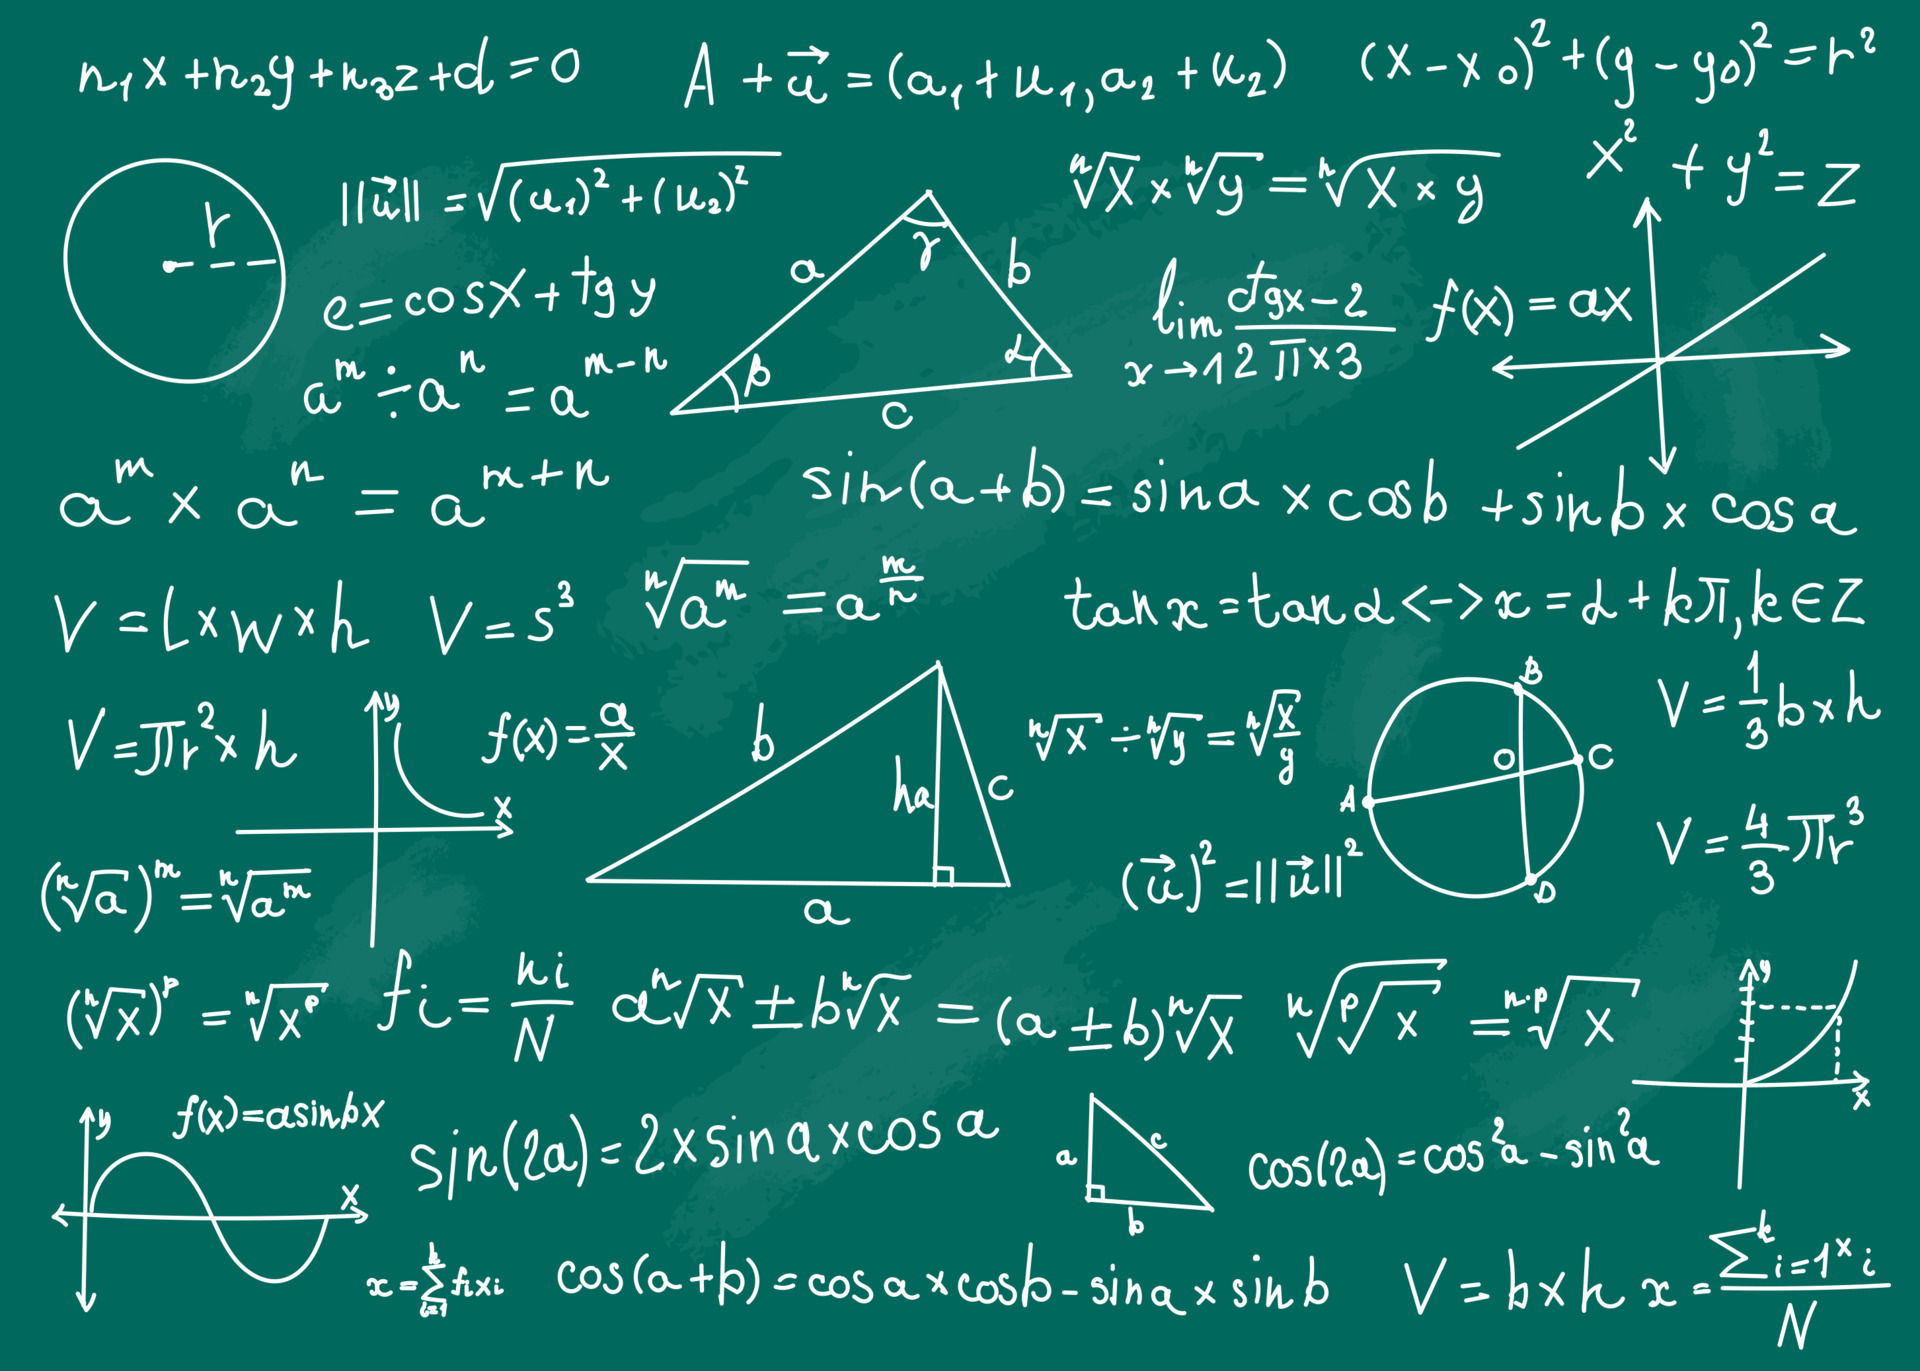
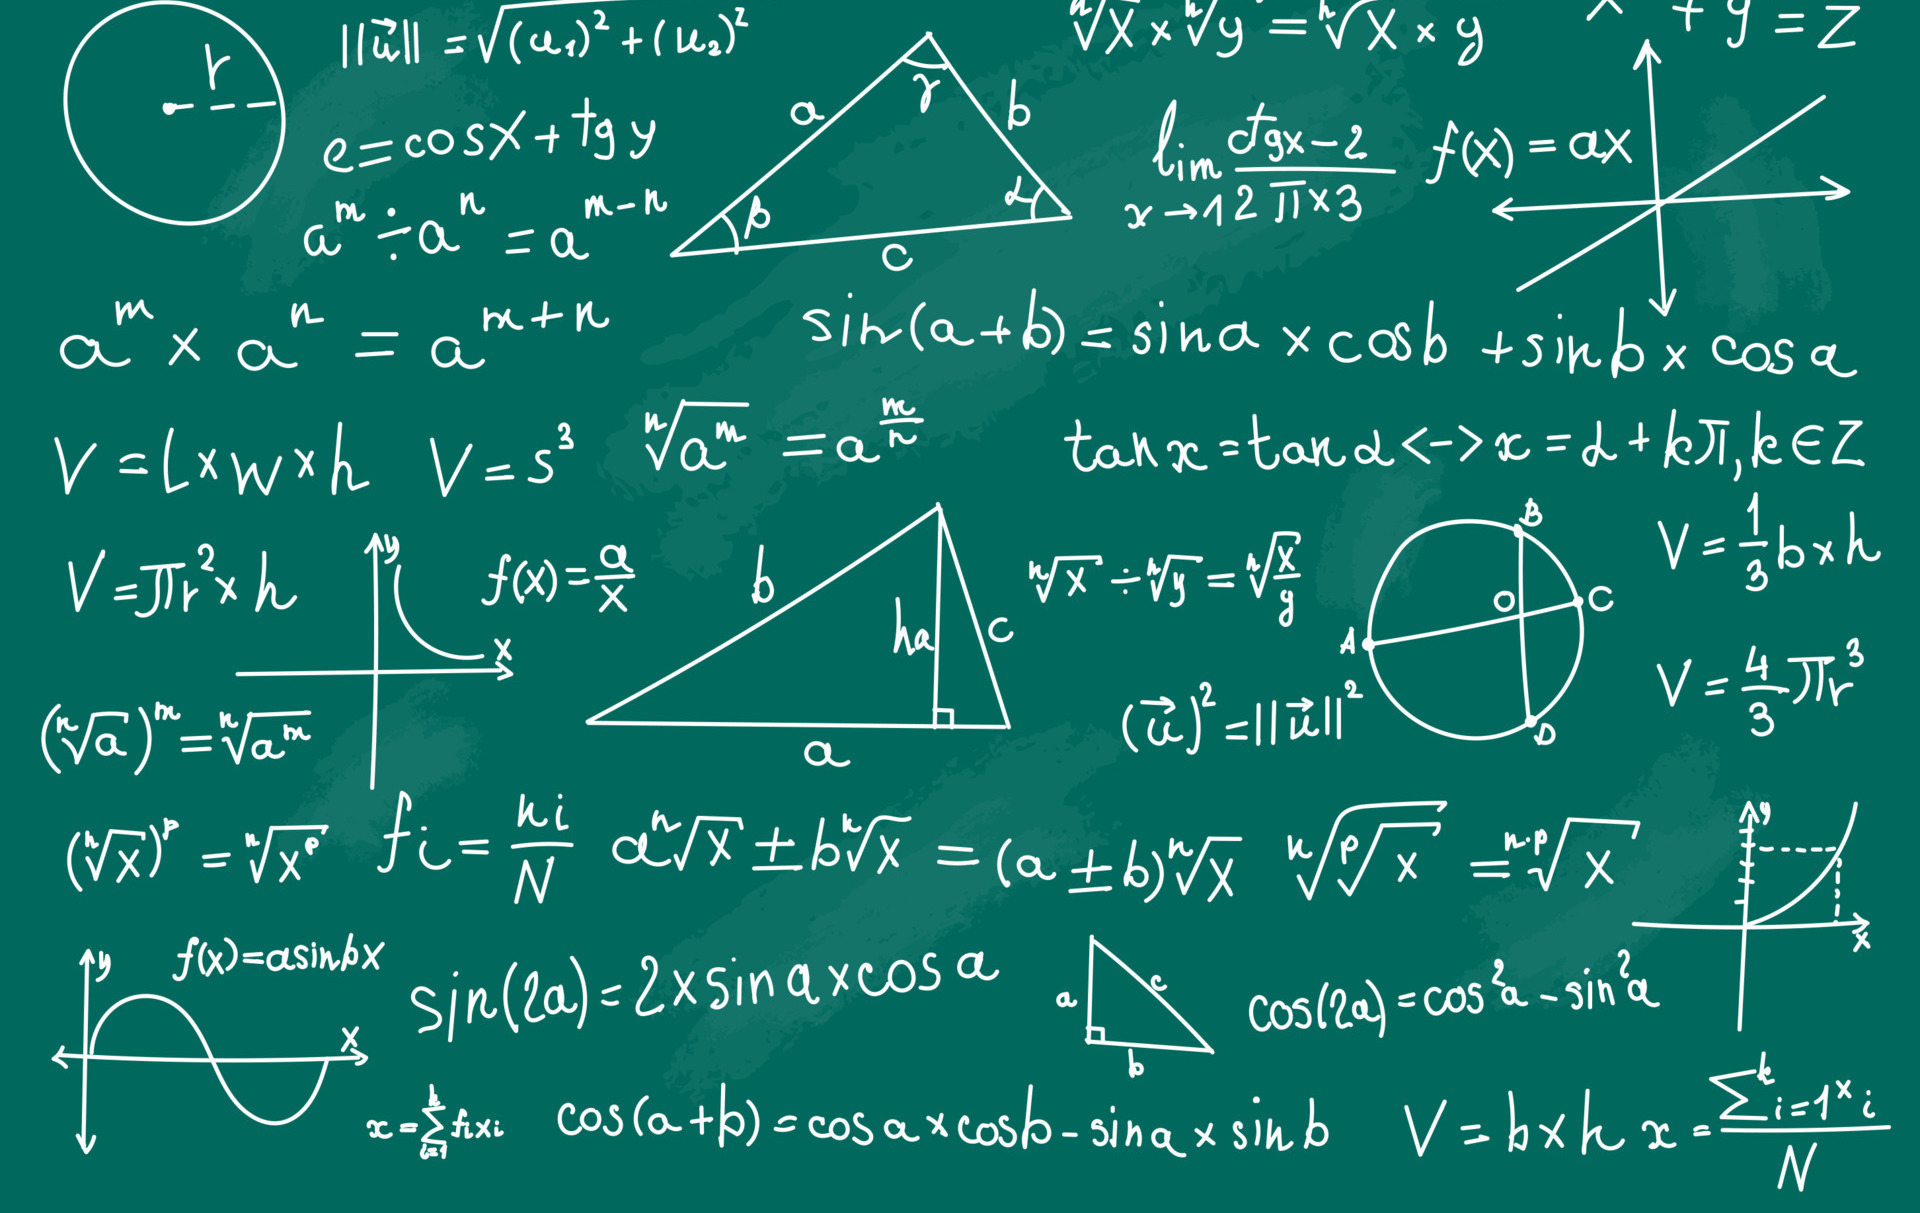
make hero image a webp file

Changed region(s): [[0.0, 0.0, 1.0, 0.9761], [0.7188, 0.8541, 1.0, 0.9761], [0.0312, 0.3355, 0.1875, 0.3965]]

diff --git a/bulma.css b/bulma.css
@@ -21553,7 +21553,7 @@ has-background-danger.is-hoverable:active {
 /* Custom Styles */
 
 .hero {
-  background-image: url("images/hero-math-img.jpg");
+  background-image: url("images/hero-math-img.webp");
   background-size: cover; 
   background-position: center;
   background-repeat: no-repeat;
